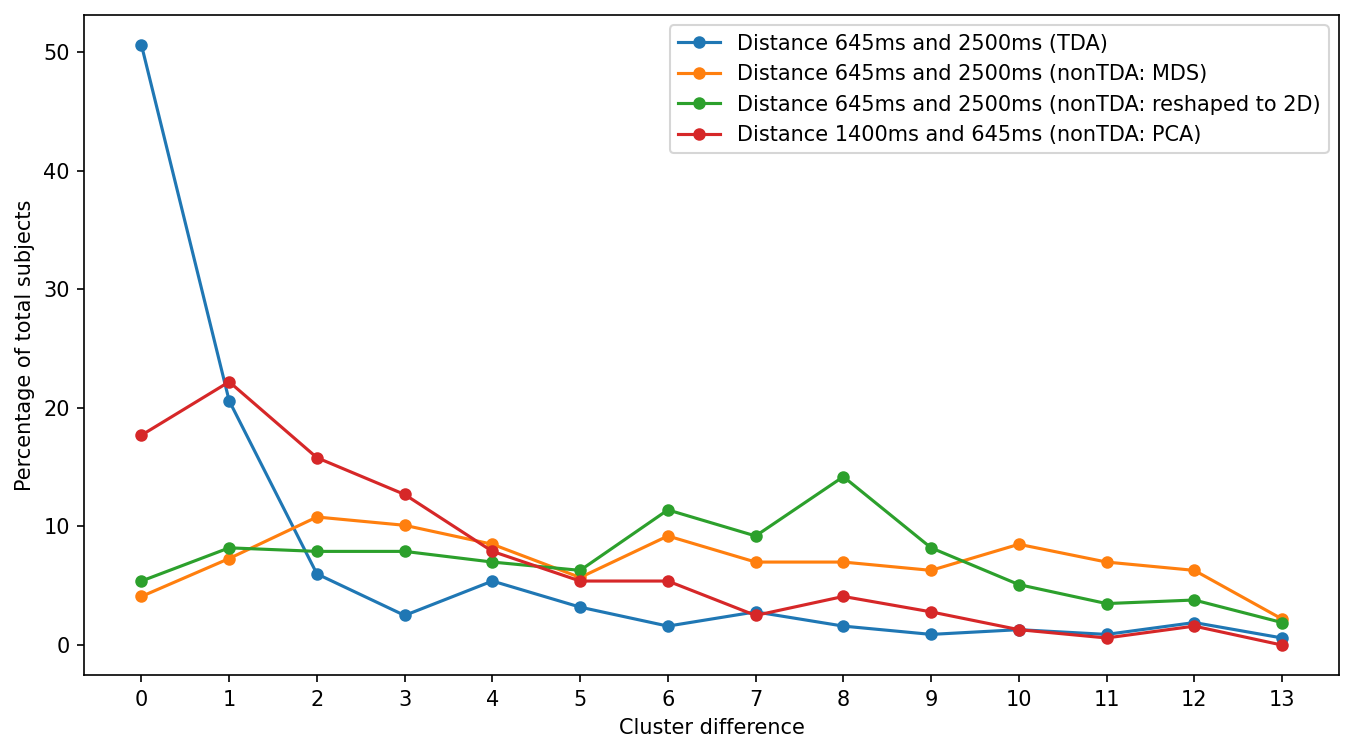
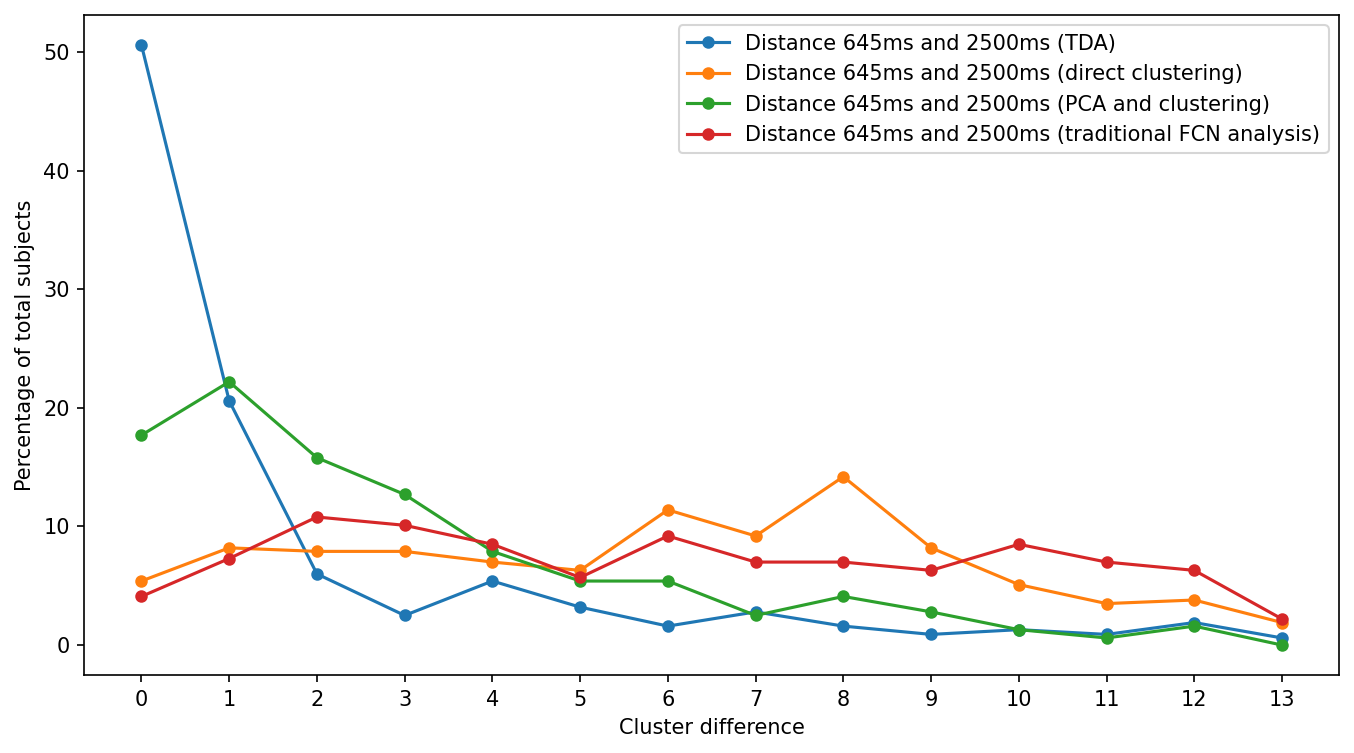
updated graphs

diff --git a/graph_generation.py b/graph_generation.py
@@ -128,25 +128,25 @@ def show_pairwise_2500_1400():
         3.165, 9.81, 10.759, 9.81, 12.025, 11.709, 10.127, 5.696, 7.595, 5.063,
         5.063, 5.696, 2.848, 0.633
     ]
-    distance_2500_1400_nontda_title = "Distance 2500ms and 1400ms (nonTDA: MDS)"
+    distance_2500_1400_nontda_title = "Distance 2500ms and 1400ms (traditional FCN analysis)"
 
     distance_2500_1400_nontda_reshape = [6.329, 8.228, 8.544, 8.228, 10.443, 8.861, 10.443, 7.911, 12.658, 6.013,
                                          6.013, 3.165, 1.899,
                                          1.266]
-    distance_2500_1400_nontda_reshape_title = "Distance 2500ms and 1400ms (nonTDA: reshaped to 2D)"
+    distance_2500_1400_nontda_reshape_title = "Distance 2500ms and 1400ms (direct clustering)"
     distance_2500_1400_nontda_pca = [20.253, 23.101, 16.772, 11.392, 9.177, 6.329, 2.848, 1.266, 4.114, 1.582,
                                      1.266,
                                      0.949,
                                      0.949, 0]
-    distance_2500_1400_nontda_pca_title = "Distance 2500ms and 1400ms (nonTDA: PCA)"
+    distance_2500_1400_nontda_pca_title = "Distance 2500ms and 1400ms (PCA and clustering)"
 
     x_label = "Cluster difference"
     y_label = "Percentage of total subjects"
-    draw_line_chart([distance_2500_1400, distance_2500_1400_nontda, distance_2500_1400_nontda_reshape,
-                     distance_2500_1400_nontda_pca],
-                    [distance_2500_1400_title,
-                     distance_2500_1400_nontda_title, distance_2500_1400_nontda_reshape_title,
-                     distance_2500_1400_nontda_pca_title],
+    draw_line_chart([distance_2500_1400, distance_2500_1400_nontda_reshape,
+                     distance_2500_1400_nontda_pca, distance_2500_1400_nontda, ],
+                    [distance_2500_1400_title, distance_2500_1400_nontda_reshape_title,
+                     distance_2500_1400_nontda_pca_title,
+                     distance_2500_1400_nontda_title, ],
                     x_label, y_label,
                     figure_path="drawing/pairwise_2500_1400.png")
 
@@ -160,21 +160,21 @@ def show_pairwise_1400_645():
     distance_1400_645_nontda = [12.342, 14.873, 12.975, 8.228, 11.076, 9.810,
                                 7.595, 5.380, 7.911, 3.797, 2.215, 1.582,
                                 1.266, 0.949]
-    distance_1400_645_nontda_title = "Distance 1400ms and 645ms (nonTDA: MDS)"
+    distance_1400_645_nontda_title = "Distance 1400ms and 645ms (traditional FCN analysis)"
 
     distance_1400_645_nontda_reshape = [32.911, 25.633, 16.772, 7.595, 7.278, 4.747, 0.949, 1.899, 1.899, 0.316, 0, 0,
                                         0, 0]
-    distance_1400_645_nontda_reshape_title = "Distance 1400ms and 645ms (nonTDA: reshaped to 2D)"
+    distance_1400_645_nontda_reshape_title = "Distance 1400ms and 645ms (direct clustering)"
     distance_1400_645_nontda_pca = [22.152, 14.557, 13.608, 12.975, 7.278, 5.38, 4.747, 5.38, 4.43, 3.797, 2.532, 2.532,
                                     0.633, 0]
-    distance_1400_645_nontda_pca_title = "Distance 1400ms and 645ms (nonTDA: PCA)"
+    distance_1400_645_nontda_pca_title = "Distance 1400ms and 645ms (PCA and clustering)"
 
     x_label = "Cluster difference"
     y_label = "Percentage of total subjects"
     draw_line_chart(
-        [distance_1400_645, distance_1400_645_nontda, distance_1400_645_nontda_reshape, distance_1400_645_nontda_pca],
-        [distance_1400_645_title, distance_1400_645_nontda_title, distance_1400_645_nontda_reshape_title,
-         distance_1400_645_nontda_pca_title],
+        [distance_1400_645, distance_1400_645_nontda_reshape, distance_1400_645_nontda_pca, distance_1400_645_nontda, ],
+        [distance_1400_645_title, distance_1400_645_nontda_reshape_title,
+         distance_1400_645_nontda_pca_title, distance_1400_645_nontda_title, ],
         x_label, y_label,
         figure_path="drawing/pairwise_1400_645.png",
         log_scale=False)
@@ -189,24 +189,24 @@ def show_pairwise_645_2500():
     distance_645_2500_nontda = [4.114, 7.278, 10.759, 10.127, 8.544, 5.696,
                                 9.177, 6.962, 6.962, 6.329, 8.544, 6.962,
                                 6.329, 2.215]
-    distance_645_2500_nontda_title = "Distance 645ms and 2500ms (nonTDA: MDS)"
+    distance_645_2500_nontda_title = "Distance 645ms and 2500ms (traditional FCN analysis)"
 
     distance_645_2500_nontda_reshape = [5.38, 8.228, 7.911, 7.911, 6.962, 6.329, 11.392, 9.177, 14.241, 8.228, 5.063,
                                         3.481, 3.797,
                                         1.899]
-    distance_645_2500_nontda_reshape_title = "Distance 645ms and 2500ms (nonTDA: reshaped to 2D)"
+    distance_645_2500_nontda_reshape_title = "Distance 645ms and 2500ms (direct clustering)"
 
     distance_645_2500_nontda_pca = [17.722, 22.152, 15.823, 12.658, 7.911, 5.38, 5.38, 2.532, 4.114, 2.848, 1.266,
                                     0.633,
                                     1.582, 0]
-    distance_645_2500_nontda_pca_title = "Distance 1400ms and 645ms (nonTDA: PCA)"
+    distance_645_2500_nontda_pca_title = "Distance 645ms and 2500ms (PCA and clustering)"
 
     x_label = "Cluster difference"
     y_label = "Percentage of total subjects"
     draw_line_chart(
-        [distance_645_2500, distance_645_2500_nontda, distance_645_2500_nontda_reshape, distance_645_2500_nontda_pca],
-        [distance_645_2500_title, distance_645_2500_nontda_title, distance_645_2500_nontda_reshape_title,
-         distance_645_2500_nontda_pca_title],
+        [distance_645_2500, distance_645_2500_nontda_reshape, distance_645_2500_nontda_pca, distance_645_2500_nontda, ],
+        [distance_645_2500_title, distance_645_2500_nontda_reshape_title,
+         distance_645_2500_nontda_pca_title, distance_645_2500_nontda_title, ],
         x_label, y_label,
         figure_path="drawing/pairwise_645_2500.png")
 
@@ -268,16 +268,16 @@ def show_tda_nontda():
     first_dataset = [37.34, 22.15, 5.7, 5.38, 6.96, 4.11, 2.53, 3.48, 2.53,
                      2.53, 1.9, 1.58, 1.9, 1.9]
     first_dataset_title = "TDA"
-    second_dataset = [.32, 1.27, 2.85, 4.75, 7.28, 11.08, 9.81, 8.86, 10.76,
+    second_dataset = [2.22, 3.8, 7.28, 7.28, 7.91, 7.59, 10.13, 10.76, 15.82, 10.76, 6.96, 3.48, 4.11, 1.9]
+    second_dataset_title = "nonTDA (direct clustering)"
+    third_dataset = [6.01, 12.97, 12.97, 14.56, 11.39, 9.49, 6.65, 5.06, 6.65, 5.38, 3.8, 2.53, 2.53, 0]
+    third_dataset_title = "nonTDA (PCA and clustering)"
+    fourth_dataset = [.32, 1.27, 2.85, 4.75, 7.28, 11.08, 9.81, 8.86, 10.76,
                       10.13, 10.44, 10.13, 9.18, 3.16]
-    second_dataset_title = "nonTDA (MDS)"
-    third_dataset = [2.22, 3.8, 7.28, 7.28, 7.91, 7.59, 10.13, 10.76, 15.82, 10.76, 6.96, 3.48, 4.11, 1.9]
-    third_dataset_title = "nonTDA (reshaped to 2D)"
-    fourth_dataset = [6.01, 12.97, 12.97, 14.56, 11.39, 9.49, 6.65, 5.06, 6.65, 5.38, 3.8, 2.53, 2.53, 0]
-    fourth_dataset_title = "nonTDA (PCA)"
+    fourth_dataset_title = "nonTDA (traditional FCN analysis)"
     x_label = "Cluster difference"
     y_label = "Percentage of total subjects"
-    title = "TDA and nonTDA distance comparison"
+    title = "Cohort wide statistical analysis for TDA and nonTDA pipelines"
     draw_line_chart([first_dataset, second_dataset, third_dataset, fourth_dataset],
                     [first_dataset_title, second_dataset_title, third_dataset_title, fourth_dataset_title],
                     x_label, y_label,
